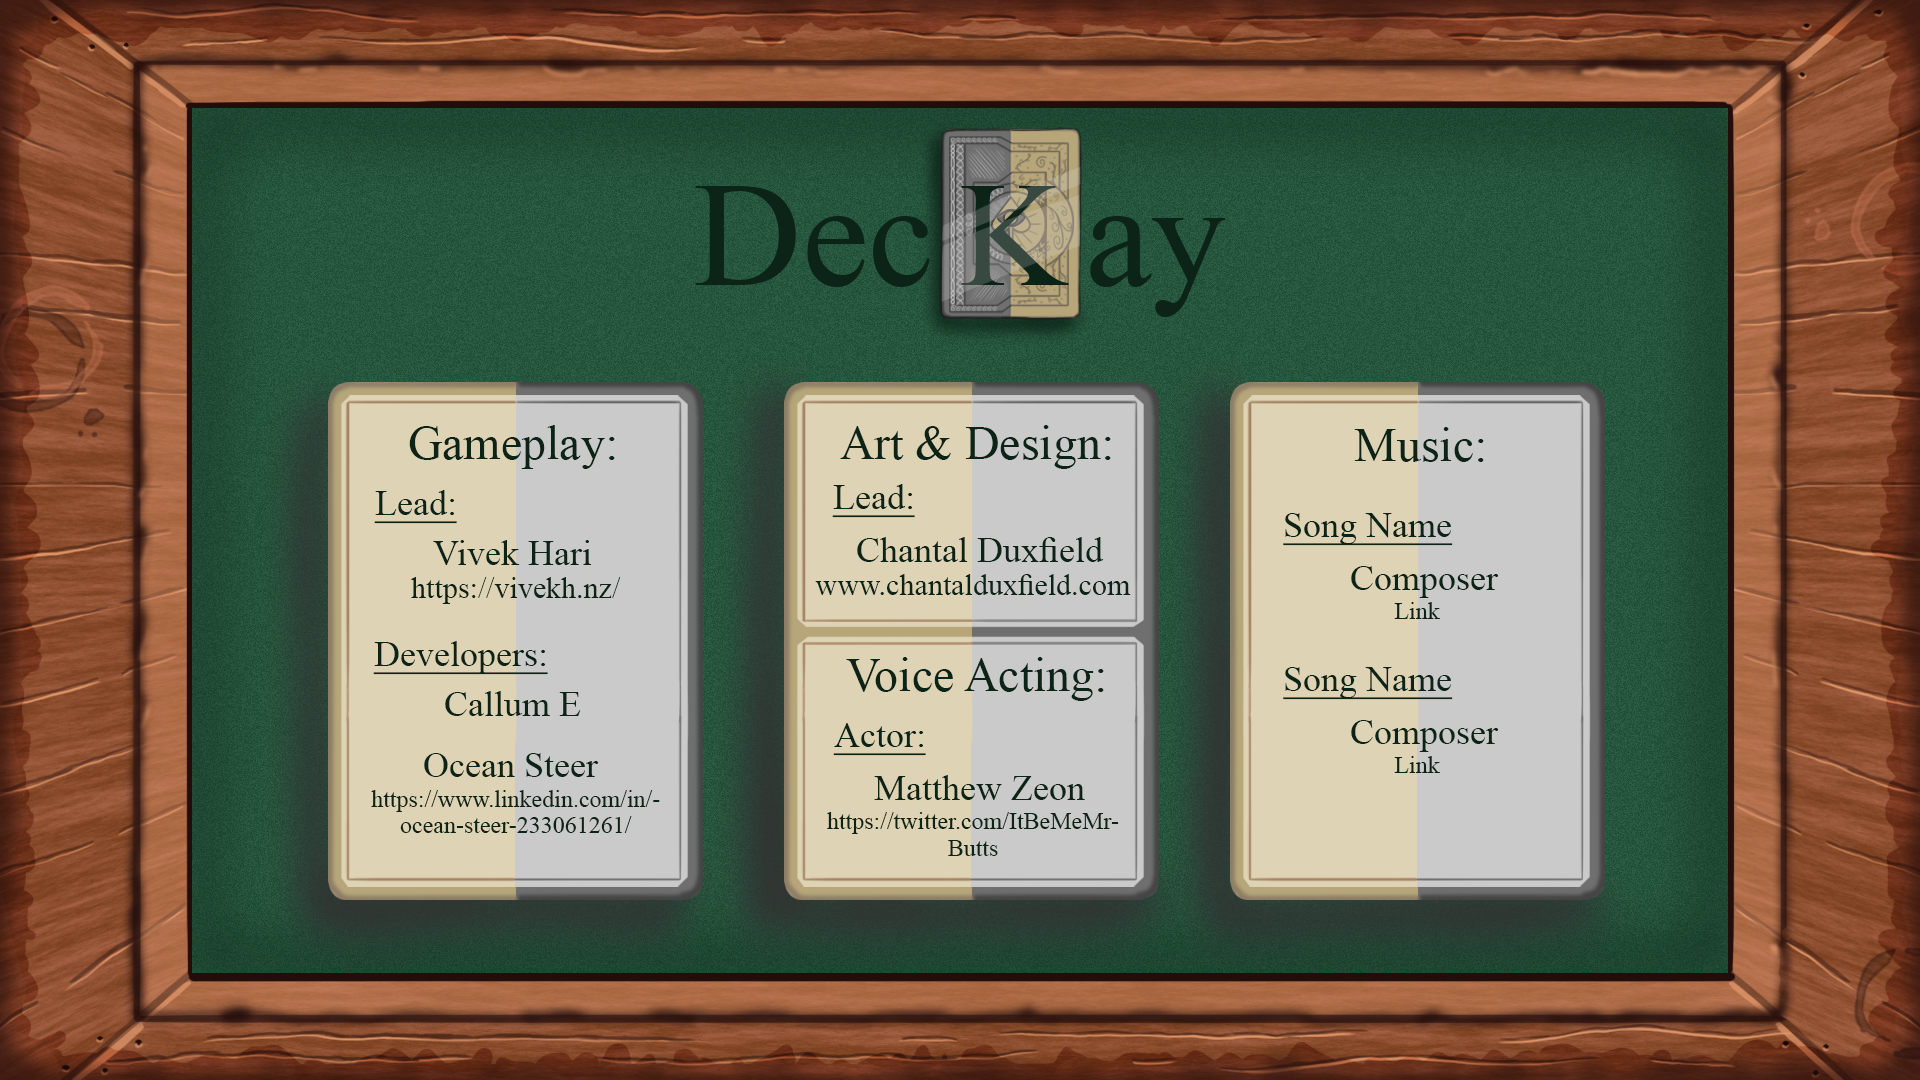
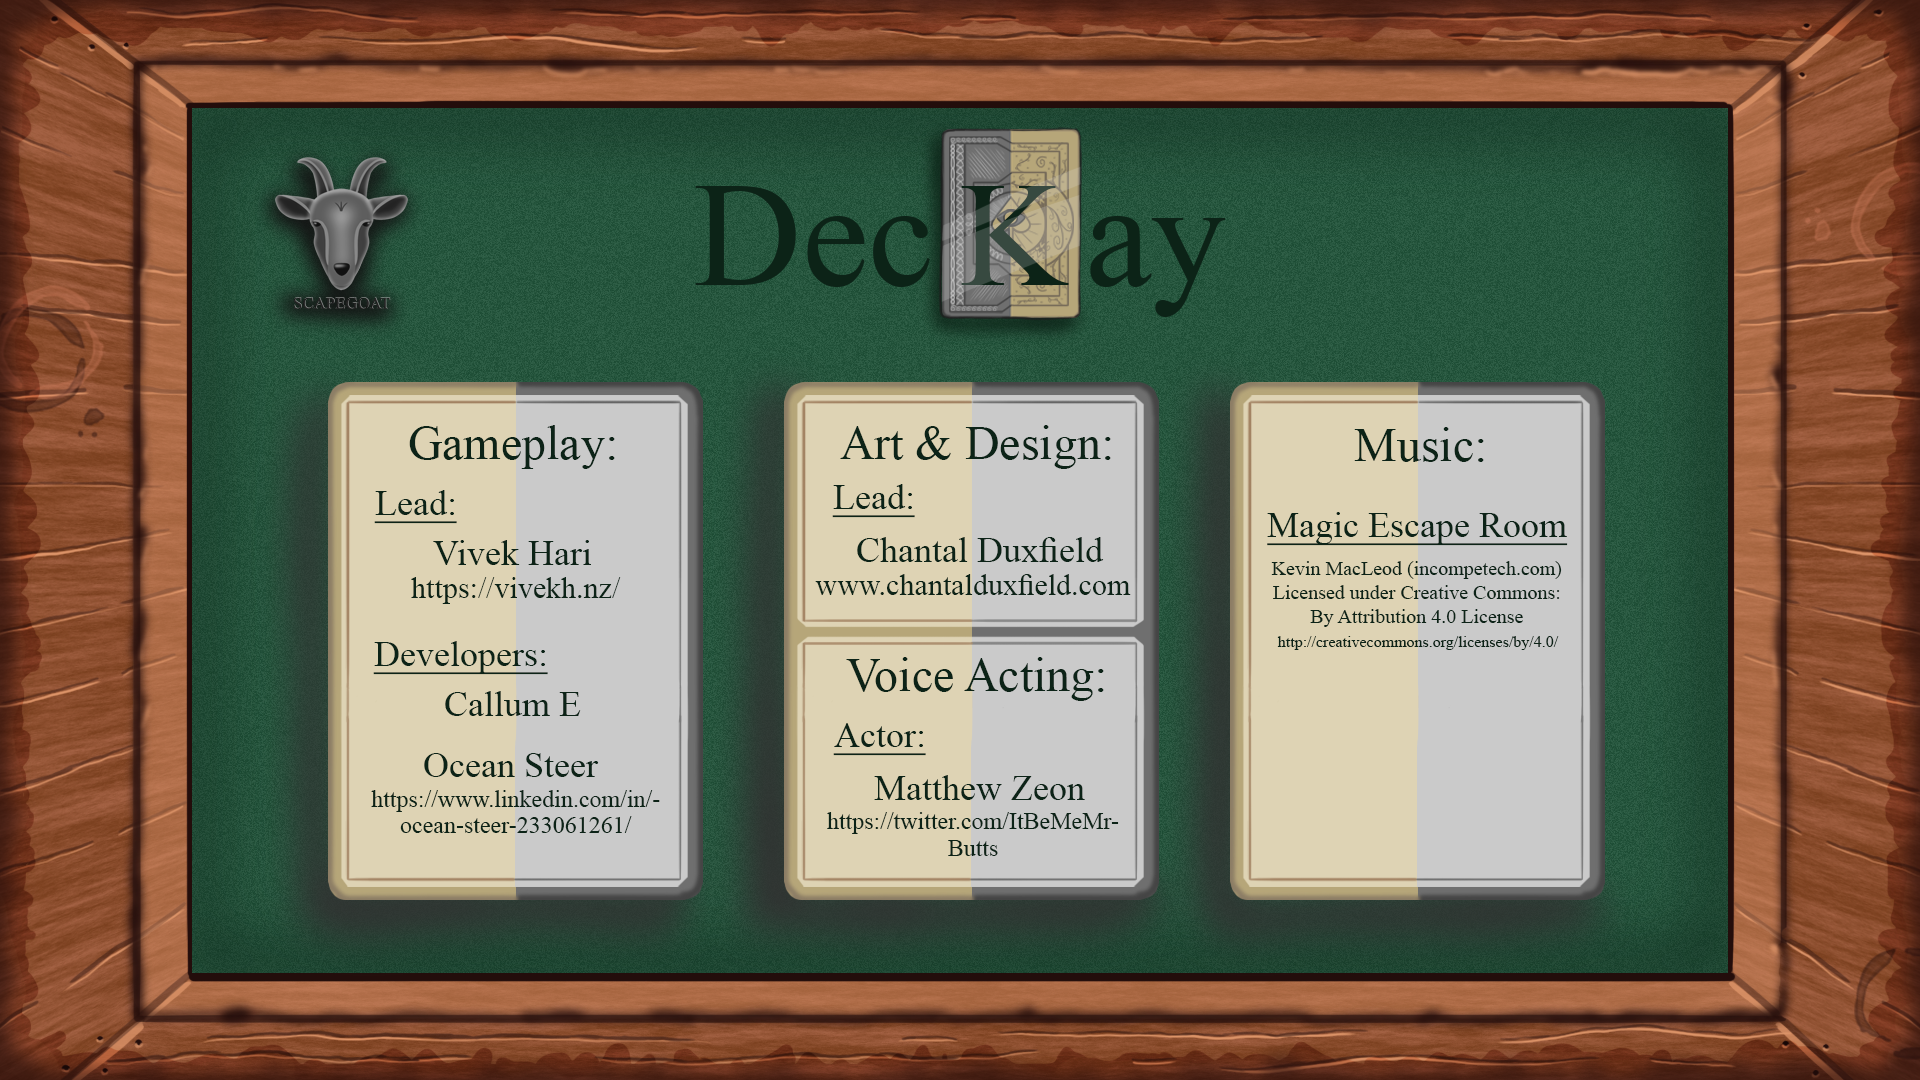
Updated screens, and decay works (Sorta)

Changed region(s): [[0.6562, 0.4583, 0.8125, 0.6417], [0.125, 0.1528, 0.2188, 0.3056], [0.7188, 0.6722, 0.7812, 0.7333]]

diff --git a/Assets/CardBehaviour.cs b/Assets/CardBehaviour.cs
@@ -16,12 +16,16 @@ public class CardBehaviour : MonoBehaviour
     public Sprite[] decayingBack;
     public Image baseImage;
     public Image infoImage;
+    private int decayIndex;
+    private int maxHealth;
 
     private RectTransform rectTransform;
 
     // Start is called before the first frame update
     void Start()
     {
+        decayIndex = decayingBack.Length - 1;
+        maxHealth = data.Health;
         rectTransform = GetComponent<RectTransform>();
         rectTransform.localScale = new Vector3(0, 0, 1);
         rectTransform.DOScale(new Vector3(1, 1, 1), 0.7f);
@@ -32,7 +36,14 @@ public class CardBehaviour : MonoBehaviour
     {
         healthText.text = data.Health.ToString();
         var cardFrontTop = data.IsWildcard ? cardWildcard : cardInfo[(int)data.Effect];
-        int decayIndex = System.Math.Min(data.Health, decayingBack.Length - 1);
+        if(data.Health == (int)(maxHealth / 2) && data.Health != 1)
+        {
+            decayIndex = 1;
+        }
+        else if(data.Health == 1)
+        {
+            decayIndex = 0;
+        }
         baseImage.sprite = data.IsFaceDown ? decayingBack[decayIndex] : decayingFront[decayIndex];
         infoImage.sprite = data.IsFaceDown ? backInfo : cardFrontTop;
     }
